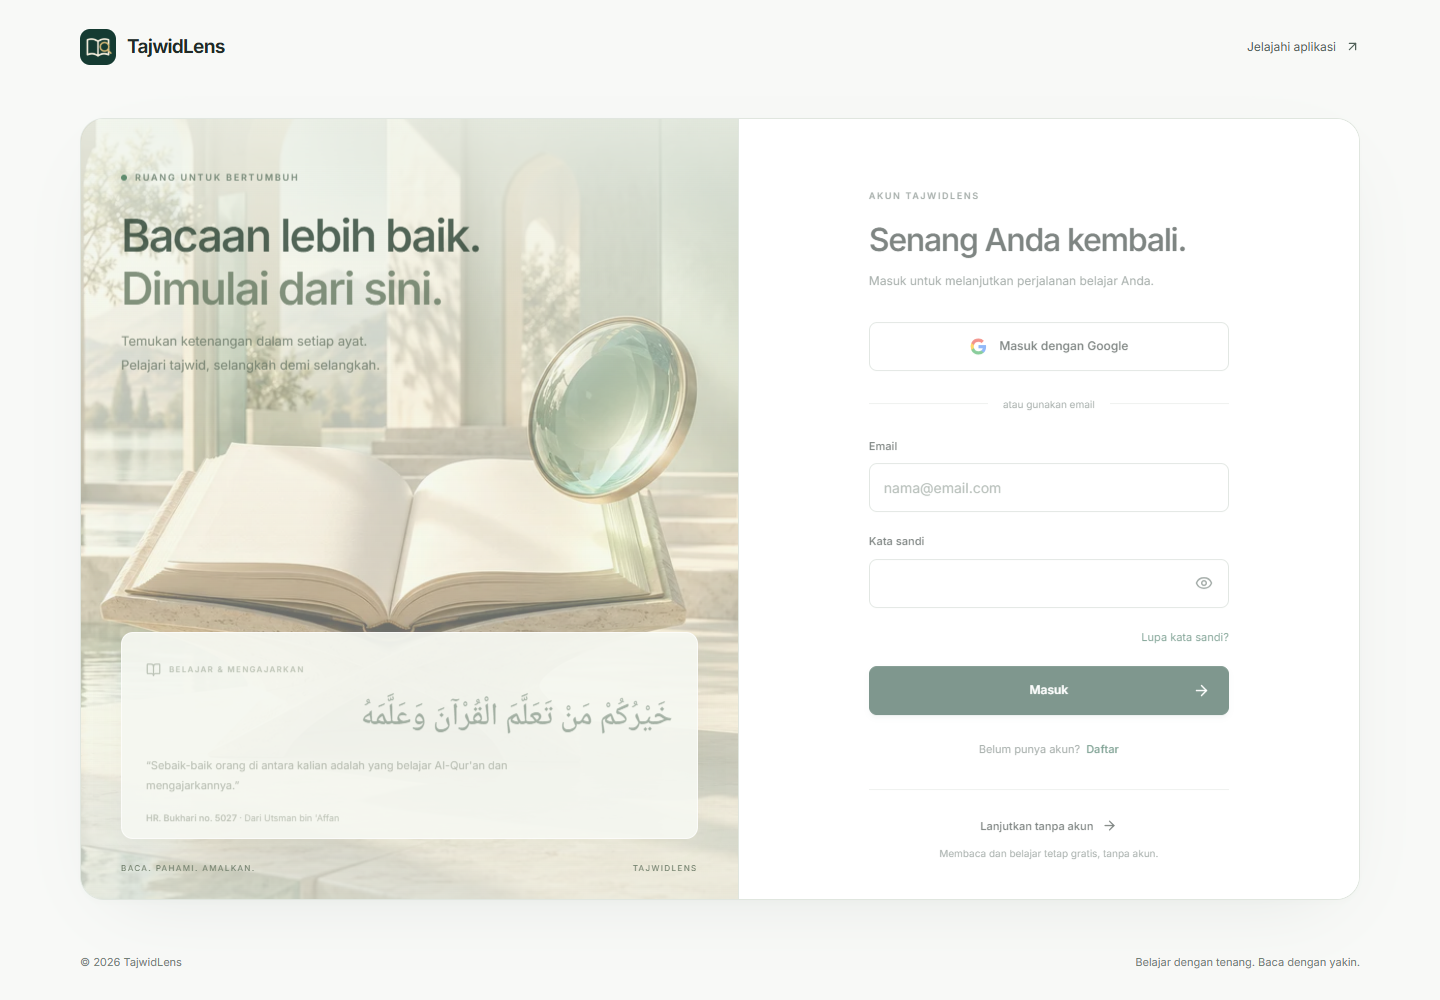
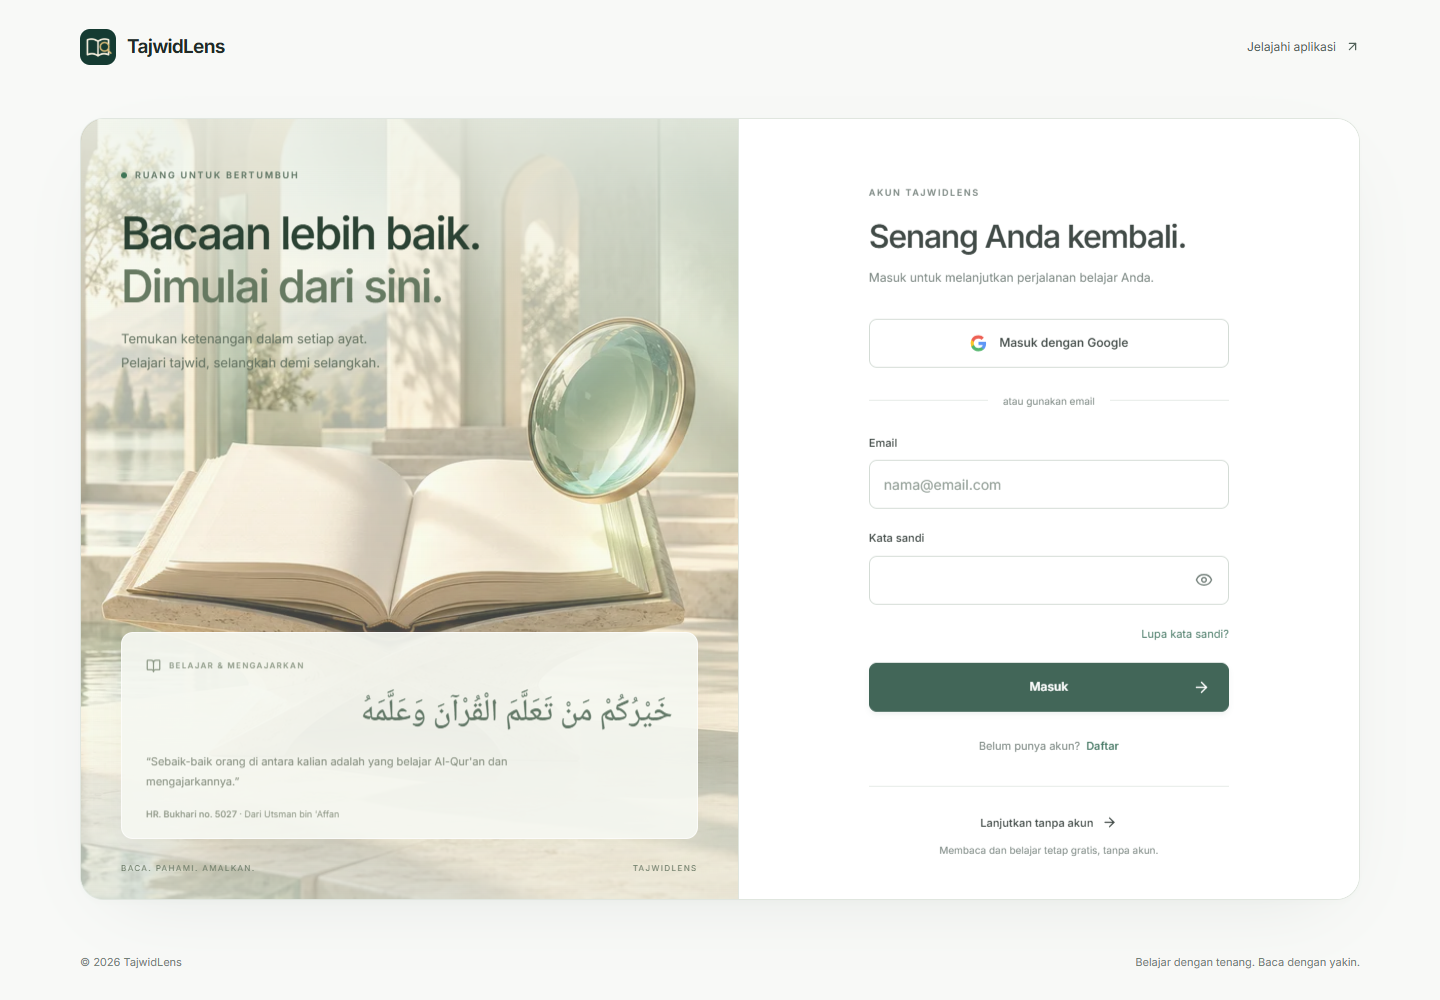
alert confirmation after register

diff --git a/web/src/components/account-form.tsx b/web/src/components/account-form.tsx
@@ -3,7 +3,7 @@
 import Link from 'next/link';
 import { FormEvent, useEffect, useRef, useState } from 'react';
 import { useRouter } from 'next/navigation';
-import { ArrowRight, Eye, EyeOff, LockKeyhole } from 'lucide-react';
+import { ArrowRight, CheckCircle2, Eye, EyeOff, LockKeyhole } from 'lucide-react';
 import { apiUrl, authApi } from '@/lib/auth-api';
 import { googleLoginError, safeReturnPath } from '@/lib/auth-navigation';
 import { assetPath } from '@/lib/asset-path';
@@ -45,6 +45,7 @@ export function AccountForm({ mode }: { mode: Mode }) {
   const [googleOpened, setGoogleOpened] = useState(false);
   const [error, setError] = useState('');
   const [message, setMessage] = useState('');
+  const [registrationResult, setRegistrationResult] = useState<{message:string}|null>(null);
   const [token, setToken] = useState('');
   const [destination, setDestination] = useState('/home/');
   const [welcome, setWelcome] = useState(false);
@@ -53,6 +54,7 @@ export function AccountForm({ mode }: { mode: Mode }) {
   const completing = useRef(false);
   const completionIds = useRef(new Set<string>());
   const errorRef = useRef<HTMLParagraphElement>(null);
+  const registrationRef = useRef<HTMLDivElement>(null);
   const profile = mode === 'profile';
   const entry = mode === 'login' || mode === 'register';
   const emailDeferred = !loading && !!capabilities && !capabilities.emailDelivery;
@@ -71,6 +73,7 @@ export function AccountForm({ mode }: { mode: Mode }) {
     if (hash.has('token')) window.history.replaceState(null, '', window.location.pathname);
   }, []);
   useEffect(() => { if (error) errorRef.current?.focus(); }, [error]);
+  useEffect(() => { if (registrationResult) registrationRef.current?.focus(); }, [registrationResult]);
   useEffect(() => {
     const restore = () => { working.current = false; setBusy(false); };
     window.addEventListener('pageshow', restore);
@@ -104,7 +107,8 @@ export function AccountForm({ mode }: { mode: Mode }) {
   }
   function submit(event: FormEvent<HTMLFormElement>) {
     event.preventDefault();
-    const fields = Object.fromEntries(new FormData(event.currentTarget));
+    const form = event.currentTarget;
+    const fields = Object.fromEntries(new FormData(form));
     void action(async () => {
       if (mode === 'login') {
         await authApi('/auth/login', fields);
@@ -118,6 +122,11 @@ export function AccountForm({ mode }: { mode: Mode }) {
       }
       const path = mode === 'register' ? '/auth/register' : mode === 'forgot-password' ? '/auth/password/forgot' : mode === 'reset-password' ? '/auth/password/reset' : '/auth/verify-email';
       const result = await authApi<{ message: string }>(path, mode === 'verify-email' ? { token } : mode === 'reset-password' ? { ...fields, token } : fields);
+      if (mode === 'register') {
+        form.reset();
+        setRegistrationResult(result);
+        return;
+      }
       setMessage(result.message);
       if (mode === 'verify-email') await refresh();
     });
@@ -131,6 +140,19 @@ export function AccountForm({ mode }: { mode: Mode }) {
     catch { setError('Browser tidak mengizinkan jendela Google. Gunakan tautan lanjutkan di tab ini.'); }
     setGoogleOpened(true);
   }
+
+  if (mode === 'register' && registrationResult) return <section className="account-card account-registration-complete">
+    <span className="account-eyebrow">LANGKAH BERIKUTNYA</span>
+    <div ref={registrationRef} className="account-registration-status" role="status" tabIndex={-1} aria-live="polite" aria-atomic="true">
+      <span className="account-registration-icon"><CheckCircle2 size={30} aria-hidden="true" /></span>
+      <h1>Pendaftaran diterima.</h1>
+      <p>{registrationResult.message}</p>
+      {capabilities?.emailDelivery && !capabilities.developmentRegistration && <p>Periksa kotak masuk dan folder spam, lalu ikuti tautan verifikasi sebelum masuk.</p>}
+    </div>
+    <Link className="account-primary" href={'/login/?next=' + encodeURIComponent(destination)}>Lanjut ke halaman masuk <ArrowRight size={17} aria-hidden="true" /></Link>
+    <button className="account-register-again" type="button" onClick={() => setRegistrationResult(null)}>Daftar akun lain</button>
+    <div className="account-guest"><Link href="/home/">Lanjutkan tanpa akun <ArrowRight size={15} aria-hidden="true" /></Link><p>Membaca dan belajar tetap gratis, tanpa akun.</p></div>
+  </section>;
 
   return <section className={entry ? 'account-card' : 'account-page account-card'}>
     <span className="account-eyebrow">{profile ? 'AKUN ANDA' : 'AKUN TAJWIDLENS'}</span>

diff --git a/api/test/auth.test.ts b/api/test/auth.test.ts
@@ -295,6 +295,12 @@ test('API authentication and persistence with migrated PostgreSQL emulator',asyn
         await page.getByLabel('Email',{exact:true}).fill('browser@example.com');
         await page.getByRole('button',{name:'Daftar',exact:true}).click();
         await page.getByRole('status').filter({hasText:'Jika alamat'}).waitFor();
+        await browserExpect(page.getByRole('heading',{name:'Pendaftaran diterima.',exact:true})).toBeVisible();
+        await browserExpect(page.locator('.account-registration-status')).toBeFocused();
+        await browserExpect(page.locator('form')).toHaveCount(0);
+        await browserExpect(page.getByRole('link',{name:'Lanjut ke halaman masuk',exact:true})).toHaveAttribute('href','/login/?next=%2Fhome%2F');
+        await page.getByRole('button',{name:'Daftar akun lain',exact:true}).click();
+        for(const label of ['Nama panggilan','Email','Kata sandi']) await browserExpect(page.getByLabel(label,{exact:true})).toHaveValue('');
         const verify=mails.find(m=>m.email==='browser@example.com' && m.kind==='verify')!;
         await page.goto(`http://localhost:3101/verify-email/#token=${verify.token}`);
         await page.getByRole('button',{name:'Verifikasi email',exact:true}).click();
@@ -435,7 +441,10 @@ test('API authentication and persistence with migrated PostgreSQL emulator',asyn
         await page.getByLabel('Kata sandi',{exact:true}).fill('development browser password');
         await page.getByRole('button',{name:'Daftar',exact:true}).click();
         await page.getByRole('status').filter({hasText:'siap untuk pengujian'}).waitFor();
-        await page.goto('http://localhost:3101/login/');
+        await browserExpect(page.getByRole('heading',{name:'Pendaftaran diterima.',exact:true})).toBeVisible();
+        await browserExpect(page.locator('form')).toHaveCount(0);
+        await page.getByRole('link',{name:'Lanjut ke halaman masuk',exact:true}).click();
+        await page.waitForURL('**/login/?next=%2Fhome%2F');
         await page.getByLabel('Email',{exact:true}).fill('browser-dev@example.com');
         await page.getByLabel('Kata sandi',{exact:true}).fill('development browser password');
         await page.getByRole('button',{name:'Masuk',exact:true}).click();await page.waitForURL('**/home/');

diff --git a/web/src/app/account.css b/web/src/app/account.css
@@ -87,6 +87,13 @@
 .account-error { background: var(--clay-tint); border: 1px solid #eccbc2; color: #9a352a; }
 .account-development-note { display: flex; align-items: flex-start; gap: 7px; color: var(--text-secondary); font-size: 10px; line-height: 1.7; }
 .account-development-note svg { flex-shrink: 0; margin-top: 2px; }
+.account-registration-status { margin: 26px 0 28px; border-radius: 12px; }
+.account-registration-status:focus { outline: 2px solid var(--focus); outline-offset: 10px; }
+.account-registration-icon { display: grid; place-items: center; width: 60px; height: 60px; margin-bottom: 24px; border: 1px solid #d5e5da; border-radius: 18px; background: #edf6ef; color: #28624b; }
+.account-registration-status > p { font-size: 14px; line-height: 1.8; color: var(--text-secondary); margin: 16px 0 0; }
+.account-registration-complete > .account-primary { text-decoration: none; }
+.account-register-again { display: block; margin: 20px auto 0; padding: 9px 14px; border: 0; border-radius: 7px; background: transparent; color: var(--text-secondary); font-size: 12px !important; }
+.account-register-again:hover { background: var(--surface-muted); color: var(--text); }
 .account-logout { margin-top: 24px; padding: 10px 14px; border: 1px solid var(--border-strong); border-radius: 8px; background: var(--surface); color: var(--text); }
 .account-link-google { padding-top: 24px; border-top: 1px solid var(--border); display: grid; gap: 14px; }
 .account-link-google h2 { margin: 0; font-size: 19px; font-weight: 600; color: var(--text); }

diff --git a/CHECKPOINT.md b/CHECKPOINT.md
@@ -1,5 +1,12 @@
 # TajwidLens — checkpoint untuk melanjutkan dari rumah
 
+## Revisi terbaru — konfirmasi registrasi manual
+
+- Setelah respons registrasi sukses, form di-reset lalu diganti panel **Pendaftaran diterima.** dengan ikon, pesan server, fokus aksesibel/live region, CTA ke login (safe next dipertahankan) dan opsi Daftar akun lain dengan field kosong. Error tetap mempertahankan input untuk retry.
+- Jika capabilities menunjukkan verifikasi email diperlukan, panel menjelaskan kotak masuk/spam dan verifikasi sebelum login. Tidak mengklaim email terverifikasi atau membocorkan apakah email sudah terdaftar; kebijakan respons generik backend tidak diubah.
+- UI fixture tanpa akun live lulus: error input retention, fokus/status sukses, form hilang, reset kosong, password kembali tersembunyi, link next dan tanpa submit ulang otomatis pada lebar 1440/768/390/320. Screenshot desktop/mobile di `api/docs/phase-01/registration-complete-*.png` ditinjau. Export web 41 halaman lulus; hasil integrasi akhir dicatat di TEST_REPORT.
+- Lint dan acceptance API/browser terisolasi final lulus: 18 PASS / 1 SKIP / 0 gagal, termasuk konfirmasi/reset untuk mode email dan CTA login mode pengujian. Tidak menguji pengiriman SMTP live atau membuat akun live; backend/Google/profil tidak diubah oleh revisi ini.
+
 ## Revisi terbaru — wallpaper tajam, popup Google, navbar & profil
 
 - Wallpaper memenuhi panel kiri, tanpa blur, opacity gambar .94 dan overlay terarah agar heading/hadis tetap terbaca. Aset ilustrasi existing dipakai ulang; tidak ada bitmap/dependency baru.

diff --git a/api/docs/phase-01/TEST_REPORT.md b/api/docs/phase-01/TEST_REPORT.md
@@ -1,5 +1,12 @@
 # Phase 01 test update — 24 October 2026 (Asia/Jakarta)
 
+## Latest revision — manual registration feedback
+
+- New confirmation state replaces the submitted form, resets native controls, focuses an accessible status panel and offers login / register-another actions. API errors preserve input. Backend anti-enumeration and email verification policy unchanged.
+- UI fixture PASS at 1440/768/390/320: failed request preserves email/password, accepted response hides the form, status gets focus, safe next link retained, register-another opens empty controls with password hidden, exactly two deliberate requests (no automatic repeated submission). Screenshots inspected.
+- Production export/typecheck and web lint PASS (41 pages). Final isolated API/browser acceptance: 18 PASS / 1 SKIP / 0 failed, including confirmation and empty retry form for mail-verification mode, login continuation for development mode and existing Google/profile/recovery regressions. Real PostgreSQL integration remains skipped.
+- No live account created; SMTP delivery itself is not verified by this UI change.
+
 ## Latest revision — account experience and popup handoff
 
 - Web static export 41 pages PASS; API build PASS; 25 frontend unit tests PASS, including strict completion-message destination validation; frontend lint PASS.
